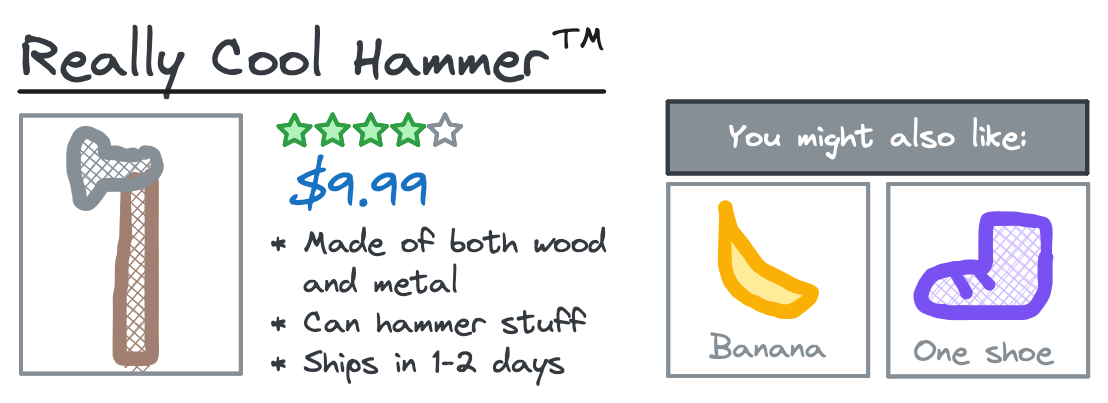
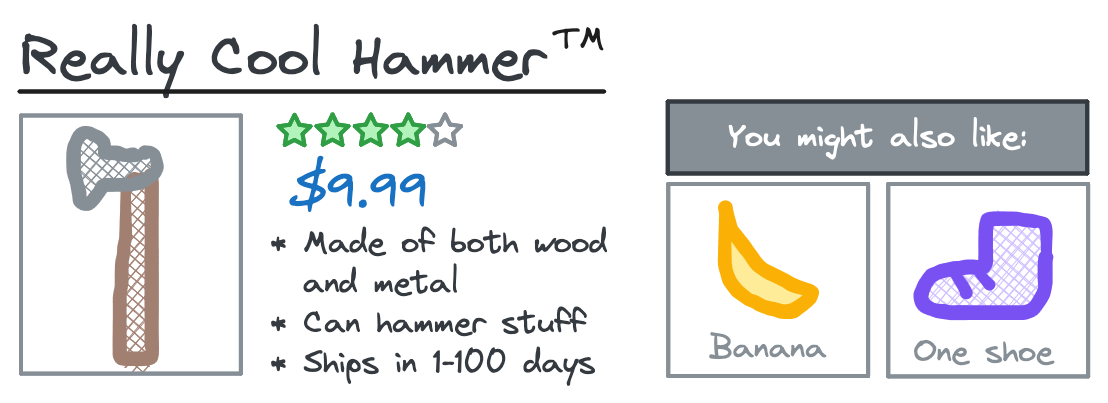
Small changes to intro

diff --git a/_posts/statistics/2024-01-29-A-B-tests.md b/_posts/statistics/2024-01-29-A-B-tests.md
@@ -5,13 +5,13 @@ author: matt_sosna
 tags: statistics
 ---
 
-Imagine you're running an e-commerce startup and just launched a "Products You Might Like" service. You spent a lot of money building what seemed like a great [recommender system](https://www.nvidia.com/en-us/glossary/recommendation-system/), but customer engagement is way lower than you expected. Your company doesn't have much [runway](https://www.brex.com/journal/startup-runway), so getting these recommendations right is important. But what if changing the algorithm actually _worsens_ engagement? How do you choose between potential alternatives without just pushing to prod and hoping for the best?
+Imagine you're running an e-commerce startup and just launched a "Products You Might Like" service. Your engineers invested a lot of time building what seemed like a great [recommender system](https://www.nvidia.com/en-us/glossary/recommendation-system/), but customer engagement is way lower than you expected. Your company doesn't have much [runway](https://www.brex.com/journal/startup-runway), so getting these recommendations right is important. But what if changing the algorithm actually _worsens_ engagement? How do you choose between potential alternatives without just pushing to prod and hoping for the best?
 
 <center>
 <img src="{{  site.baseurl  }}/images/statistics/a-b/intro_rec.png" height="90%" width="90%">
 </center>
 
-At its core, these questions revolve around _how we make decisions under uncertainty_, which is hard to do well without _relying on data_. Our botched launch -- and further failed iterations -- could have been avoided through **experimentation**, of which **A/B testing** is the gold standard. In this post, we'll cover experimentation and why it's important, how to set up A/B tests and interpret the results, and how to understand and avoid classic caveats and traps.
+These questions ultimately revolve around **_how we make decisions under uncertainty_**. Our botched launch -- and further failed iterations -- could have been avoided through **experimentation**, of which **A/B testing** is the gold standard. In this post, we'll cover experimentation and why it's important, how to set up A/B tests and interpret the results, and how to understand and avoid classic caveats and traps.
 
 ## Background
 ### How are decisions made?
